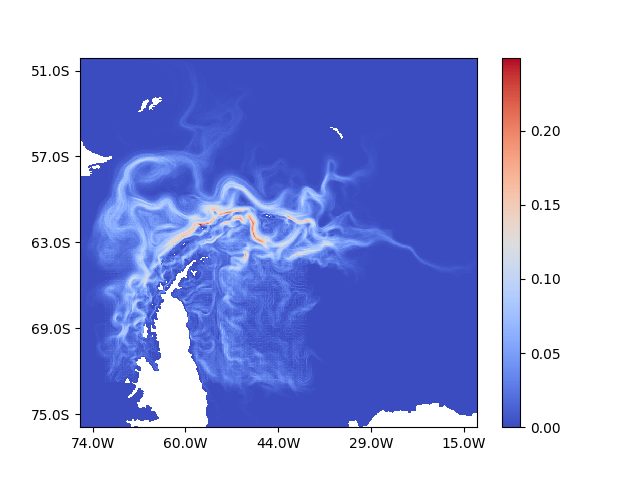
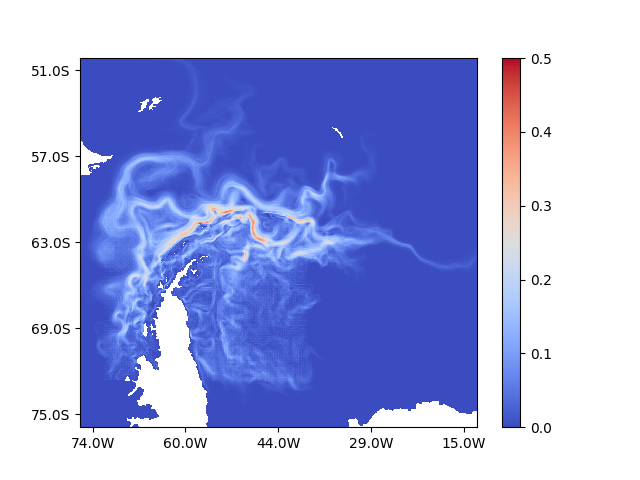
Working on regional indexing

diff --git a/analyse_trajectory.py b/analyse_trajectory.py
@@ -10,8 +10,6 @@ def sim_account(store):
     # Table with information:
     # Particle information:
     n_parts = shp[1]
-
-
     date_0 = store['time'][0]
     date_1 = store['time'][shp[0]-1]
     timeframe = date_1 - date_0
@@ -36,14 +34,23 @@ def dom_path(store):
     # dom_path = np.empty(array_shape)
     df = store['depth']
     df[df > 0] = 0
-    x = np.array(store['xp'][0:shp[1], :])
-    y = np.array(store['yp'][0:shp[1], :])
+    x = np.array(store['xp'])
+    y = np.array(store['yp'])
+    av = np.array(store['active'])
+
     for i in range(0, shp[1]):
-        idx = sub2ind(array_shape, x[:, i], y[:, i])
-        idx = idx[idx > 0]
-        idc = np.unique(idx, return_index=True)  # First index where there are unique x and y
-        xi = np.floor(x[idc[1], i]).astype(int)  # Subset based on first index
-        yi = np.floor(y[idc[1], i]).astype(int)
+        act_id = av[:, i]
+        xp = np.floor(x[act_id == 1, i])
+        yp = np.floor(y[act_id == 1, i])
+        idx = sub2ind(array_shape, xp, yp)  # Outputs positional indexes for all times for individual i
+        idc = np.unique(np.floor(idx), return_index=True)  # First index where there are unique x and y
+        xi = np.floor(xp[idc[1]]).astype(int)  # Subset unique visits
+        yi = np.floor(yp[idc[1]]).astype(int)
+        # xi = xi[xi > 0]
+        # yi = yi[yi > 0]
+        if np.shape(xi) != np.shape(yi):
+            breakpoint()
+
         df[yi, xi] = df[yi, xi] + 1
     return df
 

diff --git a/get_trajectory.py b/get_trajectory.py
@@ -22,9 +22,10 @@ def store_traj(file):
     times = traj.variables['time']
     dates = num2date(times[:], times.units)
     x, y, z = traj.variables['x'], traj.variables['y'], traj.variables['z']
+    act = traj.variables['active']
 
     # Store in dictionary
-    store = dict([('imax', imax), ('jmax', jmax), ('depth', dp),
+    store = dict([('imax', imax), ('jmax', jmax), ('depth', dp), ('active', act),
                   ('xp', x), ('yp', y), ('zp', z), ('time', dates)])
     # traj.close()
     return store
@@ -35,22 +36,25 @@ def single_traj(store, idx):
     # get dataset
     x = np.array(store['xp'][idx:idx + 1][0])
     y = np.array(store['yp'][idx:idx + 1][0])
+    active = np.array(store['active'][idx:idx + 1][0])
+    xi = x[active == 1]
+    yi = y[active == 1]
     idx = x <= 0  # Fill values
     # x[idx] = np.nan  # Set fill values to invalid;
     # y[idx] = np.nan
-    slice_v = dict([('xi', x), ('yi', y), ('dp', store['depth'])])
-    return slice_v
+    slice_t = dict([('xp', xi), ('yp', yi)])
+    return slice_t
 
 
 def read_ssmu(shp_file):
 
-    shape = gpd.read_file(shp_file)
-    print(shape.boundary)
-    pl = shape.plot()
-    pl.imshow()
-
-    print(shape[:17])
-    return
+    shape_p = gpd.read_file(shp_file)
+    # print(shape.boundary)
+    # pl = shape.plot()
+    # pl.imshow()
+    #
+    # print(shape[:17])
+    return shape_p
 
 
 def geo2grid(lat, lon, case):

diff --git a/krillmod.py b/krillmod.py
@@ -15,7 +15,7 @@ store = store_traj(file)
 #df = np.load(file)
 df = dom_path(store)
 plot_dom_path(df, store)
-
+sim_account(store)
 # Save the array to a binary file
 #file = 'C:/Users/ciank/PycharmProjects/sinmod/Krillmod/results/dom_paths.npy'
 #np.save(file, np.array(df))
@@ -24,8 +24,45 @@ plot_dom_path(df, store)
 #df = np.load(file)
 #
 #plot_grid(file)
+import shapely.geometry
+shape_v = read_ssmu(shp_file)
+pol_idx = 0
+poly1 = shape_v[pol_idx:pol_idx +1].geometry
+idx = 0
+store_t = single_traj(store, idx)
+x = store_t['xp']
+y = store_t['yp']
+lat, lon = geo2grid(x, y, 'get_bl')
+shp = np.shape(lat)
+part_in = np.zeros(shp[0])
+for i in range(0, shp[0]):
+    lon_i = lon[i]
+    lat_i = lat[i]
+    point1 = shapely.geometry.Point(lon_i, lat_i)
+    in_poly = point1.within(poly1)
+    if in_poly[1]:
+        part_in[i] = 1
 
 
+lat1 = lat[part_in > 0]
+lon1 = lon[part_in > 0]
+
+# First index should be for
+list_v = [{}, {}, {}, {}, {}]
+list_v[0]['Polygon ' + str(pol_idx)] = [lon, lat]
+list_v = ["R1", "R2"]
+foo = {}
+foo['R1'][0] = lat1
+
+idx = 0
+
+
+
+
+
+
+
+point1 = lon[0:10], lat[0:10]
 
 
 

diff --git a/plot_trajectory.py b/plot_trajectory.py
@@ -3,14 +3,13 @@ import cartopy.feature as cfeature
 import matplotlib.pyplot as plt
 import numpy as np
 from mpl_toolkits.basemap import Basemap
-
-from Krillmod.get_trajectory import geo2grid, get_traj, store_traj
+from Krillmod.get_trajectory import geo2grid, single_traj, store_traj
 
 
 def plot_geo(file):
     store = store_traj(file)
 
-    vals = get_traj(store, 0)
+    vals = single_traj(store, 0)
     # plot_grid(vals)
 
     x1 = vals['xi']

diff --git a/README.md b/README.md
@@ -36,7 +36,7 @@ _Output:_
 Function ``read_ssmu`` is used for accessing polygon data from shapefiles using geopandas. It stores information on subunits file  in the Southern Ocean defining important regions for krill predators. It assumes the 
 ``.shp`` file is in the same folder as the ``.shx`` file required. Shapefiles courtesy of https://github.com/ccamlr/data.
 ```python
-shp_file = A:/ssmu/ssmusPolygon.shp'
+shp_file = 'A:/ssmu/ssmusPolygon.shp'
 shape = read_ssmu(shp_file)
 print(shape[:5])
 ```
